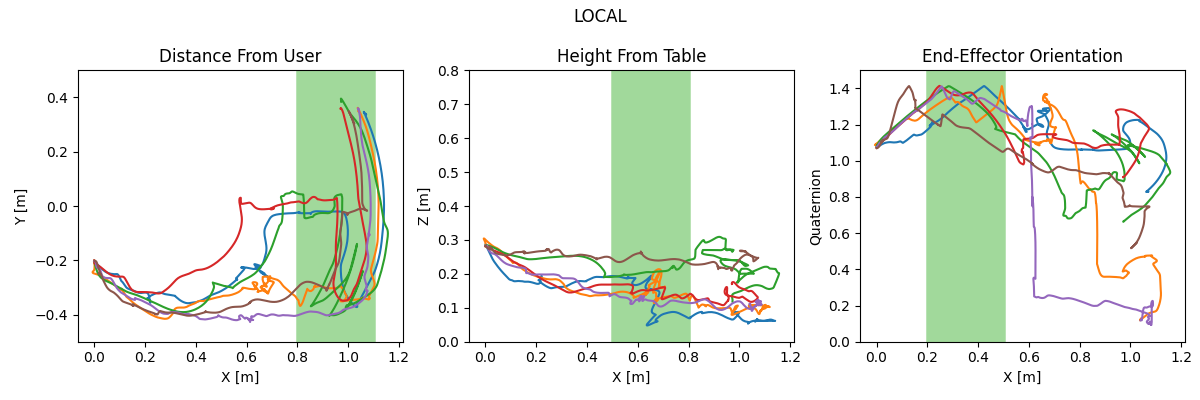
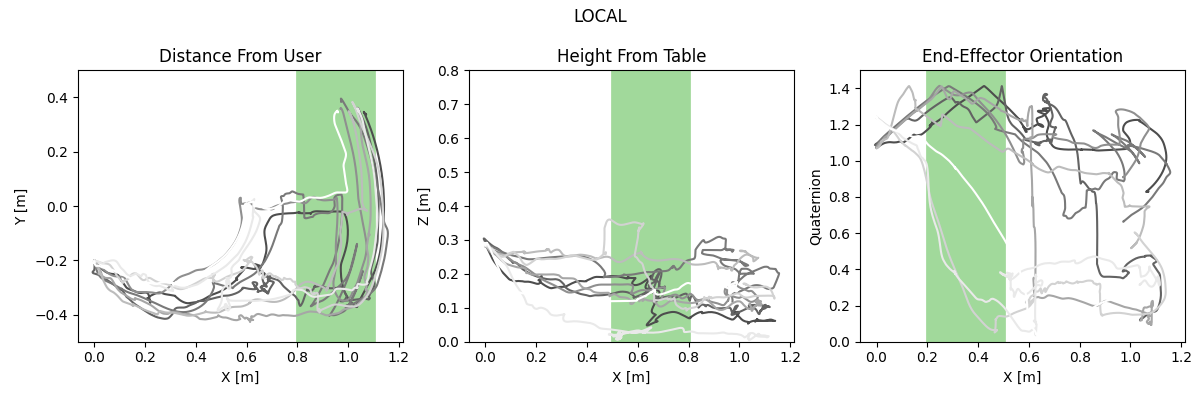
grays

diff --git a/plot_traj.py b/plot_traj.py
@@ -18,12 +18,11 @@ X = {}
 Y = {}
 Z = {}
 Quat = {}
-n = 4
-colors = np.range(0, 1, 0.1)
-print(colors)
-exit()
+n = 9
+colors = np.linspace(0.3, 1, n).tolist()
 
-for method in ["none", "GUI", "local", "global"]:
+
+for method in ["GUI", "local", "global"]:
     fig, (ax1, ax2, ax3) = plt.subplots(1, 3, figsize=(12,4))
     fig.suptitle(method.upper())
 
@@ -60,7 +59,8 @@ for method in ["none", "GUI", "local", "global"]:
     for user_n in range(1, n+1):
 
         # distance
-        ax1.plot(X[method]["user_" + str(user_n)], Y[method]["user_" + str(user_n)], label="user_" + str(user_n))
+        ax1.plot(X[method]["user_" + str(user_n)], Y[method]["user_" + str(user_n)],
+                            label="user_" + str(user_n), c=str(colors[user_n-1]))
         ax1.set_xlabel('X [m]')
         ax1.set_ylabel('Y [m]')
         ax1.set_ylim(-0.5, 0.5)
@@ -75,7 +75,8 @@ for method in ["none", "GUI", "local", "global"]:
 
 
         # height
-        ax2.plot(X[method]["user_" + str(user_n)], Z[method]["user_" + str(user_n)])
+        ax2.plot(X[method]["user_" + str(user_n)], Z[method]["user_" + str(user_n)],
+                            c=str(colors[user_n-1]))
         ax2.set_xlabel('X [m]')
         ax2.set_ylabel('Z [m]')
         ax2.set_ylim(0, 0.8)
@@ -88,7 +89,8 @@ for method in ["none", "GUI", "local", "global"]:
             region(ax2, 0.5, 0.8)
 
         # orientation
-        ax3.plot(X[method]["user_" + str(user_n)], Quat[method]["user_" + str(user_n)])
+        ax3.plot(X[method]["user_" + str(user_n)], Quat[method]["user_" + str(user_n)],
+                            c=str(colors[user_n-1]))
         ax3.set_xlabel('X [m]')
         ax3.set_ylabel('Quaternion')
         ax3.set_ylim(0, 1.5)
@@ -101,6 +103,6 @@ for method in ["none", "GUI", "local", "global"]:
             region(ax3, 0.2, 0.5)
 
 
-    plt.rc('axes', prop_cycle=(cycler('color', [(0.1, 0.2, 0.5), 'g', 'b', 'y'])))
+    # plt.rc('axes', prop_cycle=(cycler('color', 'g', 'b', 'y')))
     plt.tight_layout()
     plt.savefig("results_plot/" + method + ".png")
